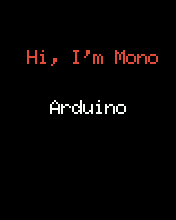
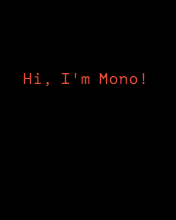
updated Arduino Hello world for v1.1

diff --git a/getting-started/arduino-hackers.md b/getting-started/arduino-hackers.md
@@ -2,10 +2,6 @@
 
 ***You can use the familiar Arduino IDE to build Mono applications. This guide will take you through the steps.***
 
-```eval_rst
-	.. caution:: **Our Arduino Board package extension is a pre-release. There are still issue with the Serial port and uploading sketches. Some API still needs implementation. If you have issues, please post on** `community.openmono.com <https://community.openmono.com>`_.
-```
-
 ## Prerequisites
 
 First I expect you are familiar with Arduino, its coding IDE and the API's like `pinMode()` etc. I also assume that you have the IDE installed, and it is version 1.6.7 or above. You do not have to follow any other of the getting started guides. Arduino IDE development for Mono is completely independed. If this is the first Mono guide you read, it is all good.
@@ -58,13 +54,9 @@ When the installation is done, you can close the *Board Manager* and return the 
 
 If you run Windows, there is an additional step. (Mac users, you can skip this section.) Windows need to detect the Mono hardware as an USB CDC device and create an ol' fashion COM port. So download the USB device definition driver by right clicking the link and choosing *Save file as*:
 
-*[raw.githubusercontent.com/getopenmono/mono_psoc5_library/master/Generated_Source/PSoC5/USBUART_cdc.inf](https://raw.githubusercontent.com/getopenmono/mono_psoc5_library/master/Generated_Source/PSoC5/USBUART_cdc.inf)*
+[Download Windows Serial Port Driver](https://github.com/getopenmono/arduino_comp/releases/download/1.1/OpenMonoSerialDriverSetup-v1.0.exe)
 
-When you connect Mono the *New hardware found...* wizard should appear, and you must direct this wiazrd to search for a driver in the directory where you downloaded the `.inf` file.
-
-```eval_rst
-.. note:: Windows will yell at you because the driver is not signed. Just hold your breath and choose *continue anyway*, to install the driver. We promise it is legit :)
-```
+Run the installer, and you are ready to use Mono.
 
 ## Limitations
 
@@ -76,7 +68,7 @@ Mono's API is much more high-level, meaning that you have functions like *Render
 
 There are some key differences between Arduino and Mono, most important the power supply. You can always turn off an Arduino by pulling its power supply, but that is not true for mono. Here power is controlled by software.
 
-By default we have added some code to the Arduino sketch template, so it will power on/off when pressing the User button. Also, we added the text *Arduino* to the display, such that you know your Mono is turned on. We dim the TFT LED backlight, so it will use minimal power.
+By default we have added some code to the Arduino sketch template, so it will power on/off when pressing the User button. Also, we added the text *Arduino* to the display, such that you know your Mono is turned on.
 
 ## Hello World
 
@@ -122,13 +114,18 @@ The complete code added to the project global context and in the `setup()` funct
 ```cpp
 
 	#include <mono.h>     // 1
+    #include <app_controller.h> // 2
     
-	mono::ui::TextLabelView textLbl(mono::geo::Rect(0,20,176,20),"Hi, I'm Mono"); // 2
+	mono::ui::TextLabelView textLbl(mono::geo::Rect(0,73,176,20),"Hi, I'm Mono"); // 3
     
 	void setup() {
 		// put your setup code here, to run once:
-		textLbl.setTextColor(mono::display::WhiteColor);   // 3
-		textLbl.show();   // 4
+		
+		//Remove the existing _Arduino_ text label
+		AppController::ArduinoAppController->ard.hide();    //3
+		
+		textLbl.setTextColor(mono::display::WhiteColor);   // 4
+		textLbl.show();   // 5
 	}
 
 ```
@@ -136,11 +133,13 @@ The complete code added to the project global context and in the `setup()` funct
 I have numbered the interesting source code lines, let go through them one by one:
 
 1. We include the Mono Framework, to have access to Mono's API.
-2. Here we define the global *TextLabel* object called `textLbl`. Because it is global it will stick around and not be deallocated.
-   * In *TextLabelView*'s contructor we create a rectangle object ([Rect](../reference/mono_geo_Rect.md)), and give the position ``$(0,50)$`` and dimension ``$(176,20)$``.
+1. Include refences to the default AppController object
+1. Here we define the global *TextLabel* object called `textLbl`. Because it is global it will stick around and not be deallocated.
+   * In *TextLabelView*'s contructor we create a rectangle object ([Rect](../reference/mono_geo_Rect.md)), and give the position ``$(0,73)$`` and dimension ``$(176,20)$``.
    * In the constructors second parameters we set the text content on the *TextLabel*. This is the text that will be displayed on the screen.
-3. Because the screen on the Arduino template app is black, we need to tell the label to use a *White* text color.
-4. We tell the *TextLabel* to render itself on the screen. All UI widgets are hidden by default. You must call `show()` to render them.
+1. Get the default *AppController* object, and tells its `ard` *TextLabel* to be hidden.
+1. Because the screen on the Arduino template app is black, we need to tell the label to use a *White* text color.
+1. We tell the *TextLabel* to render itself on the screen. All UI widgets are hidden by default. You must call `show()` to render them.
 
 Now you can press the compile button (<i class="fa fa-check"></i>) and see the code compiles. If you have Mono connected you can upload the application by pressing the <i class="fa fa-arrow-circle-right"></i> button.
 
